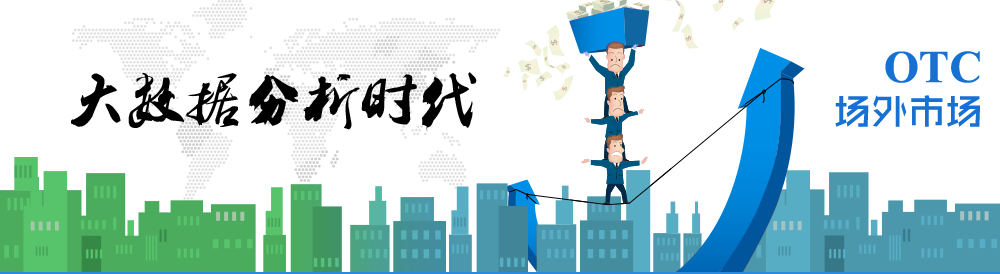
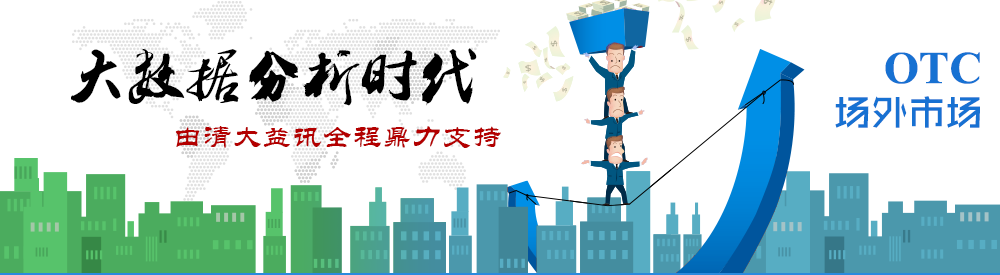
修改banner和脚注

diff --git a/templates/otc/base.html b/templates/otc/base.html
@@ -46,7 +46,7 @@
 
 
 <div class="wrap footer">
-	<p>© 2014 场外数库（上海）信息技术有限公司 版权所有 ICP证：沪14030824</p>
+	<p>© 2014 场外数库（上海）信息技术有限公司 版权所有 沪ICP备14030824号</p>
 	<p>地址：上海市长宁区武定西路1251弄102号 Email：qinghuainvest@qinghuainvest.com</p>
 </div>
 <script type="text/javascript" src="{% static 'js/jquery-1.7.min.js'%}"></script>
